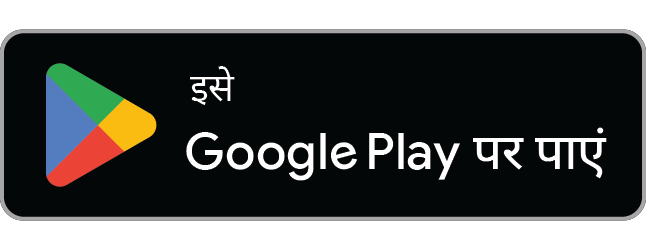
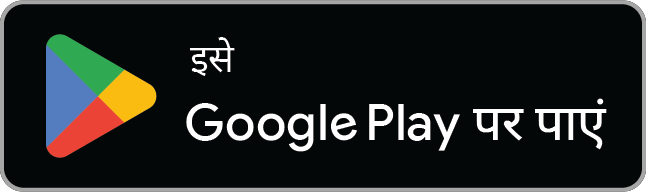
fix(site): TestFlight button the same size as the Google Play badge
Trimmed the transparent padding from the Play badge PNGs so its height is the
visible button, and gave both 56px (50px on phones) and matching widths.

diff --git a/index.html b/index.html
@@ -1021,8 +1021,8 @@
   .stats-asof { margin-top:6px; font-size:11px; color:var(--muted); }
   html[lang="hi"] .dl-label, html[lang="hi"] .stats .l, html[lang="hi"] .plat-eyebrow, html[lang="hi"] .store-badge .txt small { letter-spacing:.02em; }
   .play-badge { display:inline-flex; align-items:center; line-height:0; }
-  .play-badge img { height:72px; width:auto; display:block; margin:-5px -4px; }
-  .store-badge.tf { min-width:0; height:56px; padding:0 18px; border-radius:10px; border-color:#A6A6A6; }
+  .play-badge img { height:56px; width:auto; display:block; margin:0; }  /* padding trimmed from the PNG, so height = the visible button, same as TestFlight */
+  .store-badge.tf { min-width:188px; justify-content:center; height:56px; padding:0 20px; border-radius:9px; border-color:#A6A6A6; box-sizing:border-box; }
   .topnav { display:flex; gap:16px; margin-right:6px; }
   .topnav a { font-size:13px; font-weight:600; color:var(--fg2); text-decoration:none; }
   .topnav a:hover { color:var(--tint); }
@@ -1032,7 +1032,7 @@
 
   .foot-pub a { color:inherit; }
   .fc-addr { display:block; font-size:12px; color:var(--muted); margin-top:6px; line-height:1.5; }
-  @media (max-width:640px){ .play-badge img { height:62px; } .store-badge.tf { height:52px; } .hero-note { text-align:center; } .stats-asof { text-align:center; } }
+  @media (max-width:640px){ .play-badge img { height:50px; } .store-badge.tf { height:50px; min-width:168px; } .hero-note { text-align:center; } .stats-asof { text-align:center; } }
   @media (max-width:560px){ .topnav { gap:12px; } }
   /* The direct-APK line under the badges. Deliberately quiet: the store is the
      route we want people on, and this is the one that still works in the hour
@@ -2611,7 +2611,7 @@
       return h('div', { className:'store-row' },
         h('a', { className:'play-badge', href:PLAY_STORE, target:'_blank', rel:'noopener',
                  onClick:function(){ storeClick('android','play-'+where); } },
-          h('img', { src:'./img/play-badge-'+(lang==='hi'?'hi':'en')+'.png', width:646, height:250,
+          h('img', { src:'./img/play-badge-'+(lang==='hi'?'hi':'en')+'.png', width:(lang==='hi'?646:564), height:(lang==='hi'?192:168),
                      alt:(lang==='hi'?'इसे Google Play पर पाएं':'Get it on Google Play') })),
         h('a', { className:'store-badge tf', href:TESTFLIGHT, target:'_blank', rel:'noopener',
                  onClick:function(){ storeClick('ios','testflight-'+where); },
